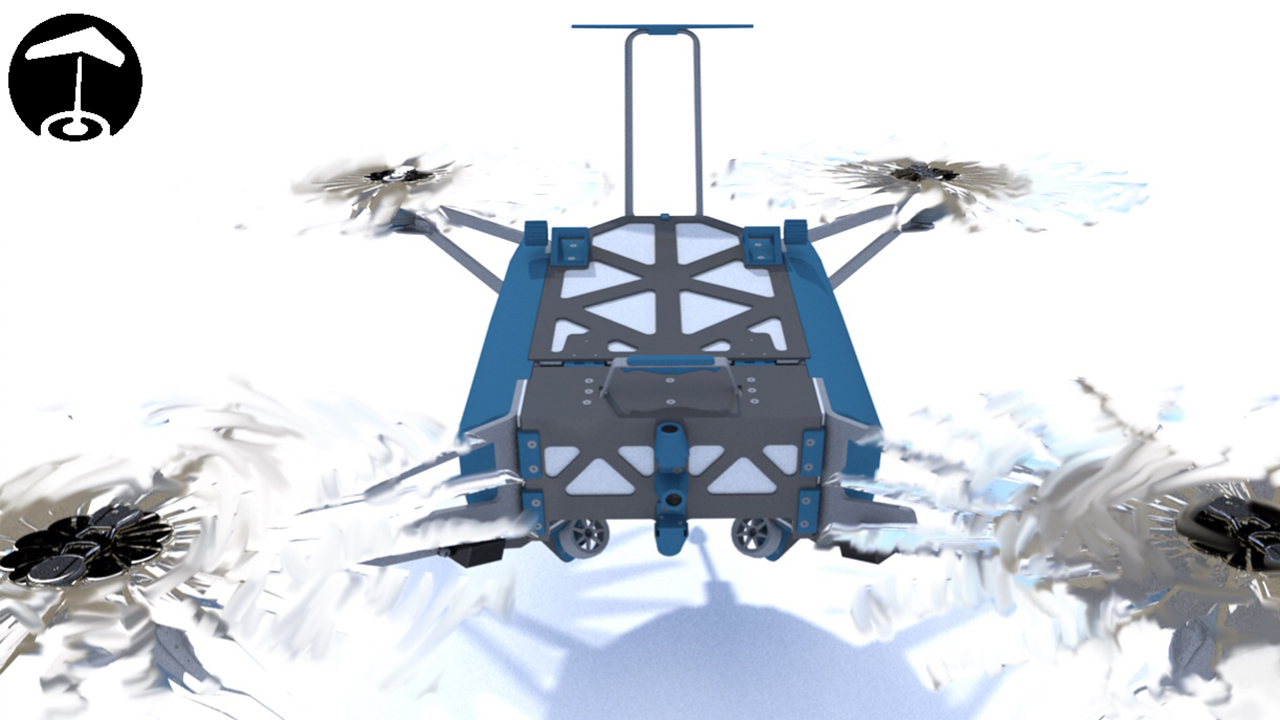
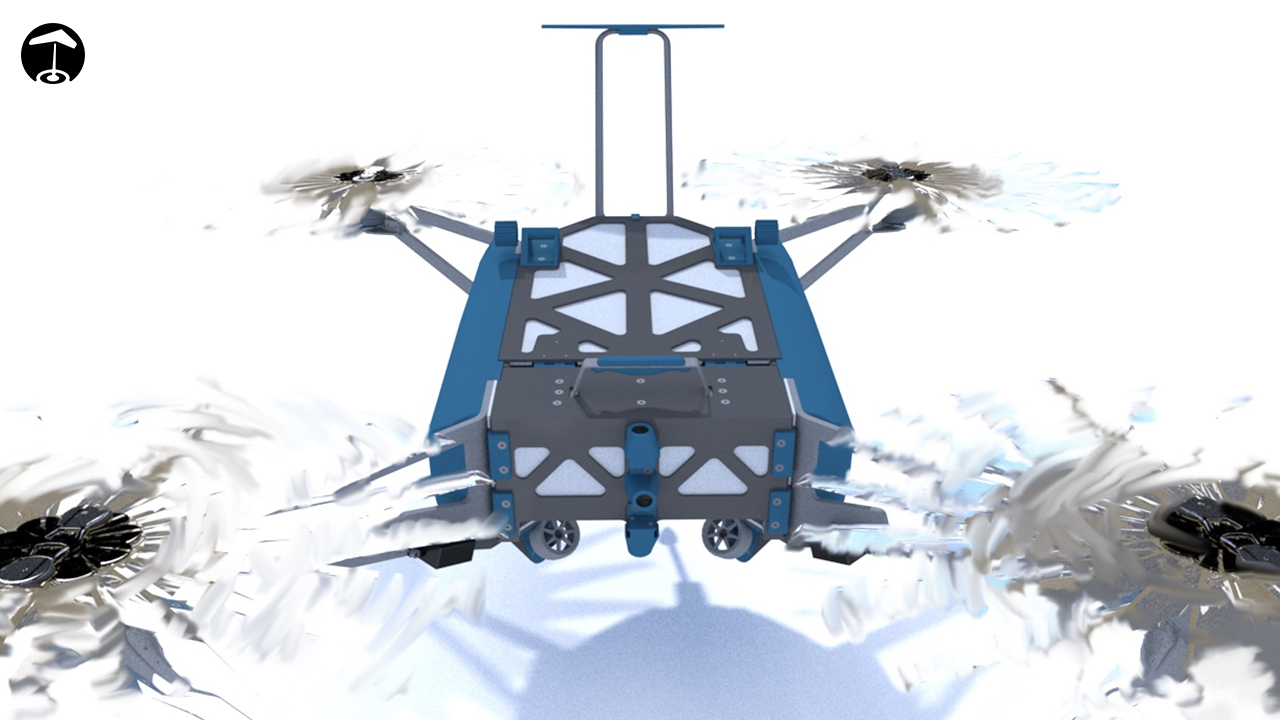
new final renders are in, new watermarks!

diff --git a/public/JS/blogContent.js b/public/JS/blogContent.js
@@ -138,20 +138,17 @@ function addTooltips( contentString ){
       parsing = true;
     }
     else if( contentString.charAt(i) == ')'){
-      //generate the string to add
+      //generate string to add, set content for tooltip pseudo element in name 
       let addition =               spanOpenStringOp +
               contentString.substring( tipOpen, i ) +
                                   spanOpenStringEnd +
       contentString.substring( spaceOne, spaceTwo ) +
                                     spanCloseString +
                      contentString.substring( i + 1);
-      //Store the pseudo element string
       //let pseudo = "'" + contentString.substring( tipOpen, i ) + "'";
 
-      //Add everything
+      //Add everything, stop parsing
       contentString = contentString.substring(0, spaceOne) + addition;
-                                       
-      //TODO CREATE AN ARRAY TO STORE TOOLTIPS, APPEND AFTER ARTICLE DISPLAYS -----------------------------------------------
       parsing = false;
     }
     else if( contentString.charAt(i) == ' ' && !parsing ){
@@ -163,7 +160,6 @@ function addTooltips( contentString ){
       console.log(contentString.substring(spaceOne, spaceTwo));
     }
   }
-
   return contentString;
 }
 

diff --git a/public/JSON/galleryEntry.js b/public/JSON/galleryEntry.js
@@ -14,17 +14,18 @@
 
  //stores the gallery iamge names as JSON objects
 var image = [
-  {name: "TDD_8_DroneFull.jpg"},
-  {name: "TDD_8_DroneBottom.jpg"},
-  {name: "TDD_8_DroneTop.jpg"},
-  {name: "TDD_8_DroneFront.jpg"},
-  {name: "TDD_8_Prop.jpg"},
-  {name: "TDD_8_DronePortrait.jpg"},
-  {name: "TDD_8_DroneAngle.jpg"},
-  {name: "TDD_8_DroneOpen.jpg"},
-  {name: "TDD_8_DroneBattery.jpg"},
-  {name: "TDD_8_DroneVent.jpg"},
-  {name: "TDD_8_ChargeBattery.jpg"},
   {name: "TDD_8_Charger.jpg"},
-  {name: "TDD_8_ChargerVent.jpg"}
+  {name: "TDD_8_ChargerPort.jpg"},
+  {name: "TDD_8_DroneTop.jpg"},
+  {name: "TDD_8_ChargerVents.jpg"},
+  {name: "TDD_8_DroneBattery.jpg"},
+  {name: "TDD_8_DroneBottom.jpg"},
+  {name: "TDD_8_DroneCarryOpen.jpg"},
+  {name: "TDD_8_DroneFront.jpg"},
+  {name: "TDD_8_DroneProfile.jpg"},
+  {name: "TDD_8_DroneProp.jpg"},
+  {name: "TDD_8_DronePropMotion.jpg"},
+  {name: "TDD_8_DroneSide.jpg"},
+  {name: "TDD_8_DroneTop.jpg"},
+  {name: "TDD_8_DroneVent.jpg"}
 ]
